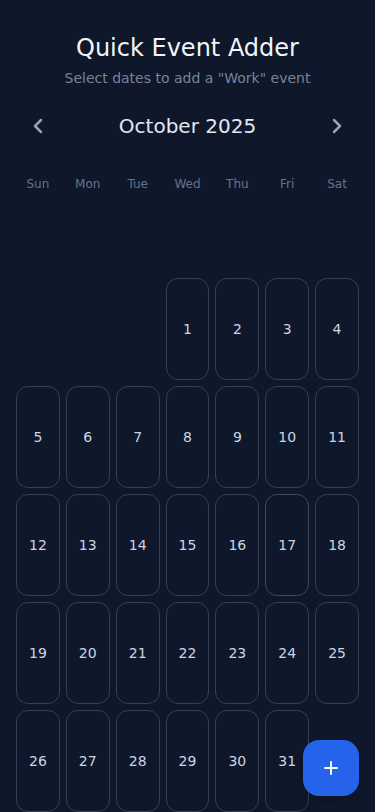
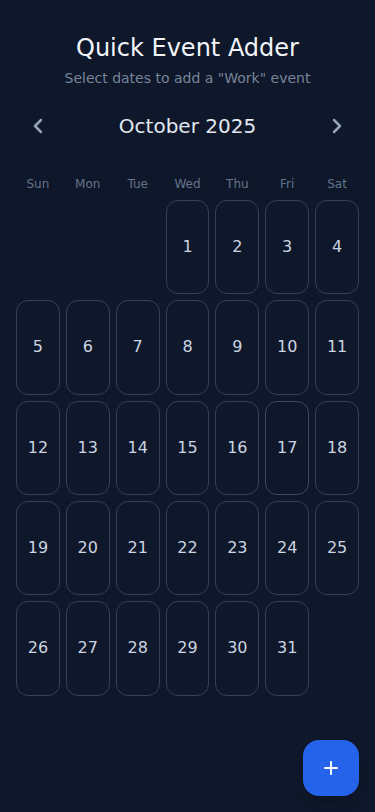
feat: Finalize mobile layout and FAB
- Refactored the main application layout to use a CSS Grid, ensuring the calendar view spans the full screen on mobile devices and resolving overflow issues.
- The `FloatingToolbar` is now positioned using the grid, avoiding `position: fixed` as requested.
- Replaced the existing floating toolbar with a Material 3-compliant Floating Action Button (FAB) that includes a speed-dial menu for actions.
- Adjusted the calendar day styling to remove the fixed aspect ratio, allowing the cells to stretch vertically and fill the viewport in portrait mode, similar to Google Calendar.
- Restructured the calendar grid to separate the day-of-the-week header from the main date grid, fixing spacing issues and ensuring the layout is visually balanced.
- Added primary color definitions to the Tailwind CSS theme to correctly style the new FAB component.
- Included a Playwright verification script to test the new layout and FAB functionality in both standard and portrait mobile viewports.

diff --git a/src/components/Calendar.tsx b/src/components/Calendar.tsx
@@ -92,9 +92,10 @@ const Calendar: React.FC<CalendarProps> = ({ selectedDates, onDateSelect }) => {
         </button>
       </div>
 
-      {/* Calendar Grid Wrapper */}
-      <div className="flex-1 overflow-y-auto flex flex-col">
-        <div className="grid grid-cols-7 gap-1.5 text-center text-sm sm:text-base flex-1">
+      {/* Calendar Grid */}
+      <div className="flex-1 flex flex-col pb-4">
+        {/* Day Names Header */}
+        <div className="grid grid-cols-7 gap-1.5 text-center text-sm sm:text-base">
           {DAY_NAMES.map((day) => (
             <div
               key={day}
@@ -103,8 +104,11 @@ const Calendar: React.FC<CalendarProps> = ({ selectedDates, onDateSelect }) => {
               {day}
             </div>
           ))}
+        </div>
+        {/* Dates Grid */}
+        <div className="flex-1 grid grid-cols-7 grid-rows-6 gap-1.5">
           {calendarGridData.map((item, index) => {
-            if (item.type === "blank" || !item.dateString) { // Added !item.dateString for type safety
+            if (item.type === "blank" || !item.dateString) {
               return (
                 <div
                   key={`blank-${index}`}
@@ -117,7 +121,7 @@ const Calendar: React.FC<CalendarProps> = ({ selectedDates, onDateSelect }) => {
             const isToday = item.dateString === todayDateString;
 
             let dayClasses =
-            "calendar-day text-slate-300 p-1 sm:p-2 border border-slate-700 hover:border-slate-600 rounded-xl cursor-pointer transition-colors flex items-center justify-center";
+              "calendar-day text-slate-300 border border-slate-700 hover:border-slate-600 rounded-xl cursor-pointer transition-colors flex items-center justify-center";
             if (isSelected) {
               dayClasses += " selected";
             }
@@ -132,7 +136,7 @@ const Calendar: React.FC<CalendarProps> = ({ selectedDates, onDateSelect }) => {
               <div
                 key={item.dateString}
                 className={dayClasses}
-                onClick={() => onDateSelect(item.dateString as string)} // Ensure item.dateString is string
+                onClick={() => onDateSelect(item.dateString as string)}
               >
                 {item.day}
               </div>

diff --git a/jules-scratch/verification/verify_layout.py b/jules-scratch/verification/verify_layout.py
@@ -6,8 +6,10 @@ def run(playwright):
     page = browser.new_page(viewport={'width': 375, 'height': 812})
     page.goto("http://localhost:5173")
 
-    # Wait for the calendar to be visible
-    expect(page.locator(".grid.grid-cols-7")).to_be_visible()
+    # Wait for the main calendar grid to be visible
+    # Using a more specific locator to avoid ambiguity
+    main_calendar_grid = page.locator(".grid.grid-cols-7.grid-rows-6")
+    expect(main_calendar_grid).to_be_visible()
 
     # Select a few dates to make the FAB appear
     # Using a more specific locator to target the clickable day element
